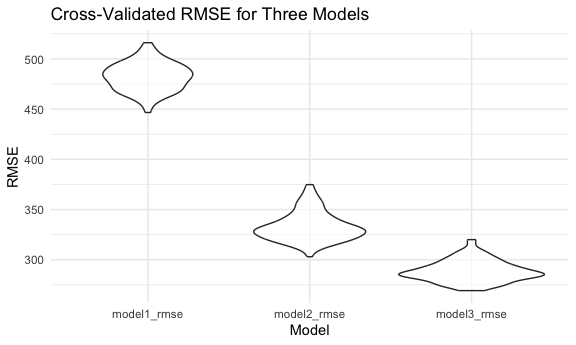
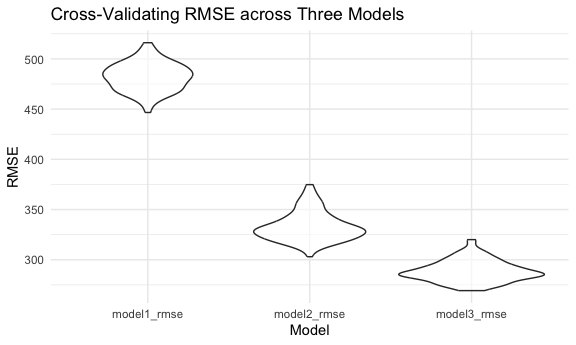
adding comment for plots problem 2, editing plots

Changed region(s): [[0.25, 0.0, 0.7188, 0.087]]

diff --git a/p8105_hw6_msp2210.md b/p8105_hw6_msp2210.md
@@ -177,14 +177,22 @@ r_squared_plot + beta_ratio_plot
 
 <img src="p8105_hw6_msp2210_files/figure-gfm/unnamed-chunk-6-1.png" width="90%" />
 
-This plot shows
+This plot shows the bootstrap distributions for R-squared and the ratio
+between Beta 1 and Beta 2 of the predictors. The left plot for R-squared
+shows that the peak of the distribution is between 94% and 94.5%, and
+this quantity means that 94-94.5% of the variation in max temperature is
+explained by the regression model, and that the model has a relatively
+strong goodness-of-fit. The right plot has the ratio for beta
+coefficients, and provides insight into the relationship between tmin
+and prcp as predictors. This plot shows a significant right skew, and
+shows that the ratio is highly unstable.
 
 **Using the 5000 bootstrap estimates, identify the 2.5% and 97.5%
 quantiles to provide a 95% confidence interval.**
 
 ``` r
 bootstrap_weather %>% 
-  summarise(
+  summarize(
     rsquared_lower = quantile(r_squared, 0.025),
     rsquared_upper = quantile(r_squared, 0.975),
     betaratio_lower = quantile(beta_ratio, 0.025),
@@ -199,13 +207,19 @@ bootstrap_weather %>%
     names_from = CI,
     values_from = value
   ) %>%
+  mutate(
+  Estimates = case_when(
+    Estimates == "rsquared"  ~ "R-squared",
+    Estimates == "betaratio" ~ "Beta ratio"
+  )
+) %>% 
   knitr::kable(digits = 3)
 ```
 
-| Estimates |    lower |    upper |
-|:----------|---------:|---------:|
-| rsquared  |    0.934 |    0.947 |
-| betaratio | -280.766 | -126.154 |
+| Estimates  |    lower |    upper |
+|:-----------|---------:|---------:|
+| R-squared  |    0.934 |    0.947 |
+| Beta ratio | -280.766 | -126.154 |
 
 ## Problem 3
 
@@ -336,7 +350,7 @@ cv_results =
   ggplot(aes(x = model, y = rmse)) +
   geom_violin(alpha = 0.6) +
   labs(
-    title = "Cross-Validated RMSE for Three Models",
+    title = "Cross-Validating RMSE across Three Models",
     x = "Model",
     y = "RMSE"
   )
@@ -349,4 +363,5 @@ cv_results
 Based on these violin plots, my proposed model has a very high RMSE,
 meaning that there are much larger prediction errors and that it is not
 a good model for birthweight. Comparatively, the other two models have
-lower RMSEs, indicating that they are better predictive models.
+lower RMSEs, indicating that they are probably better models for
+birthweight.
